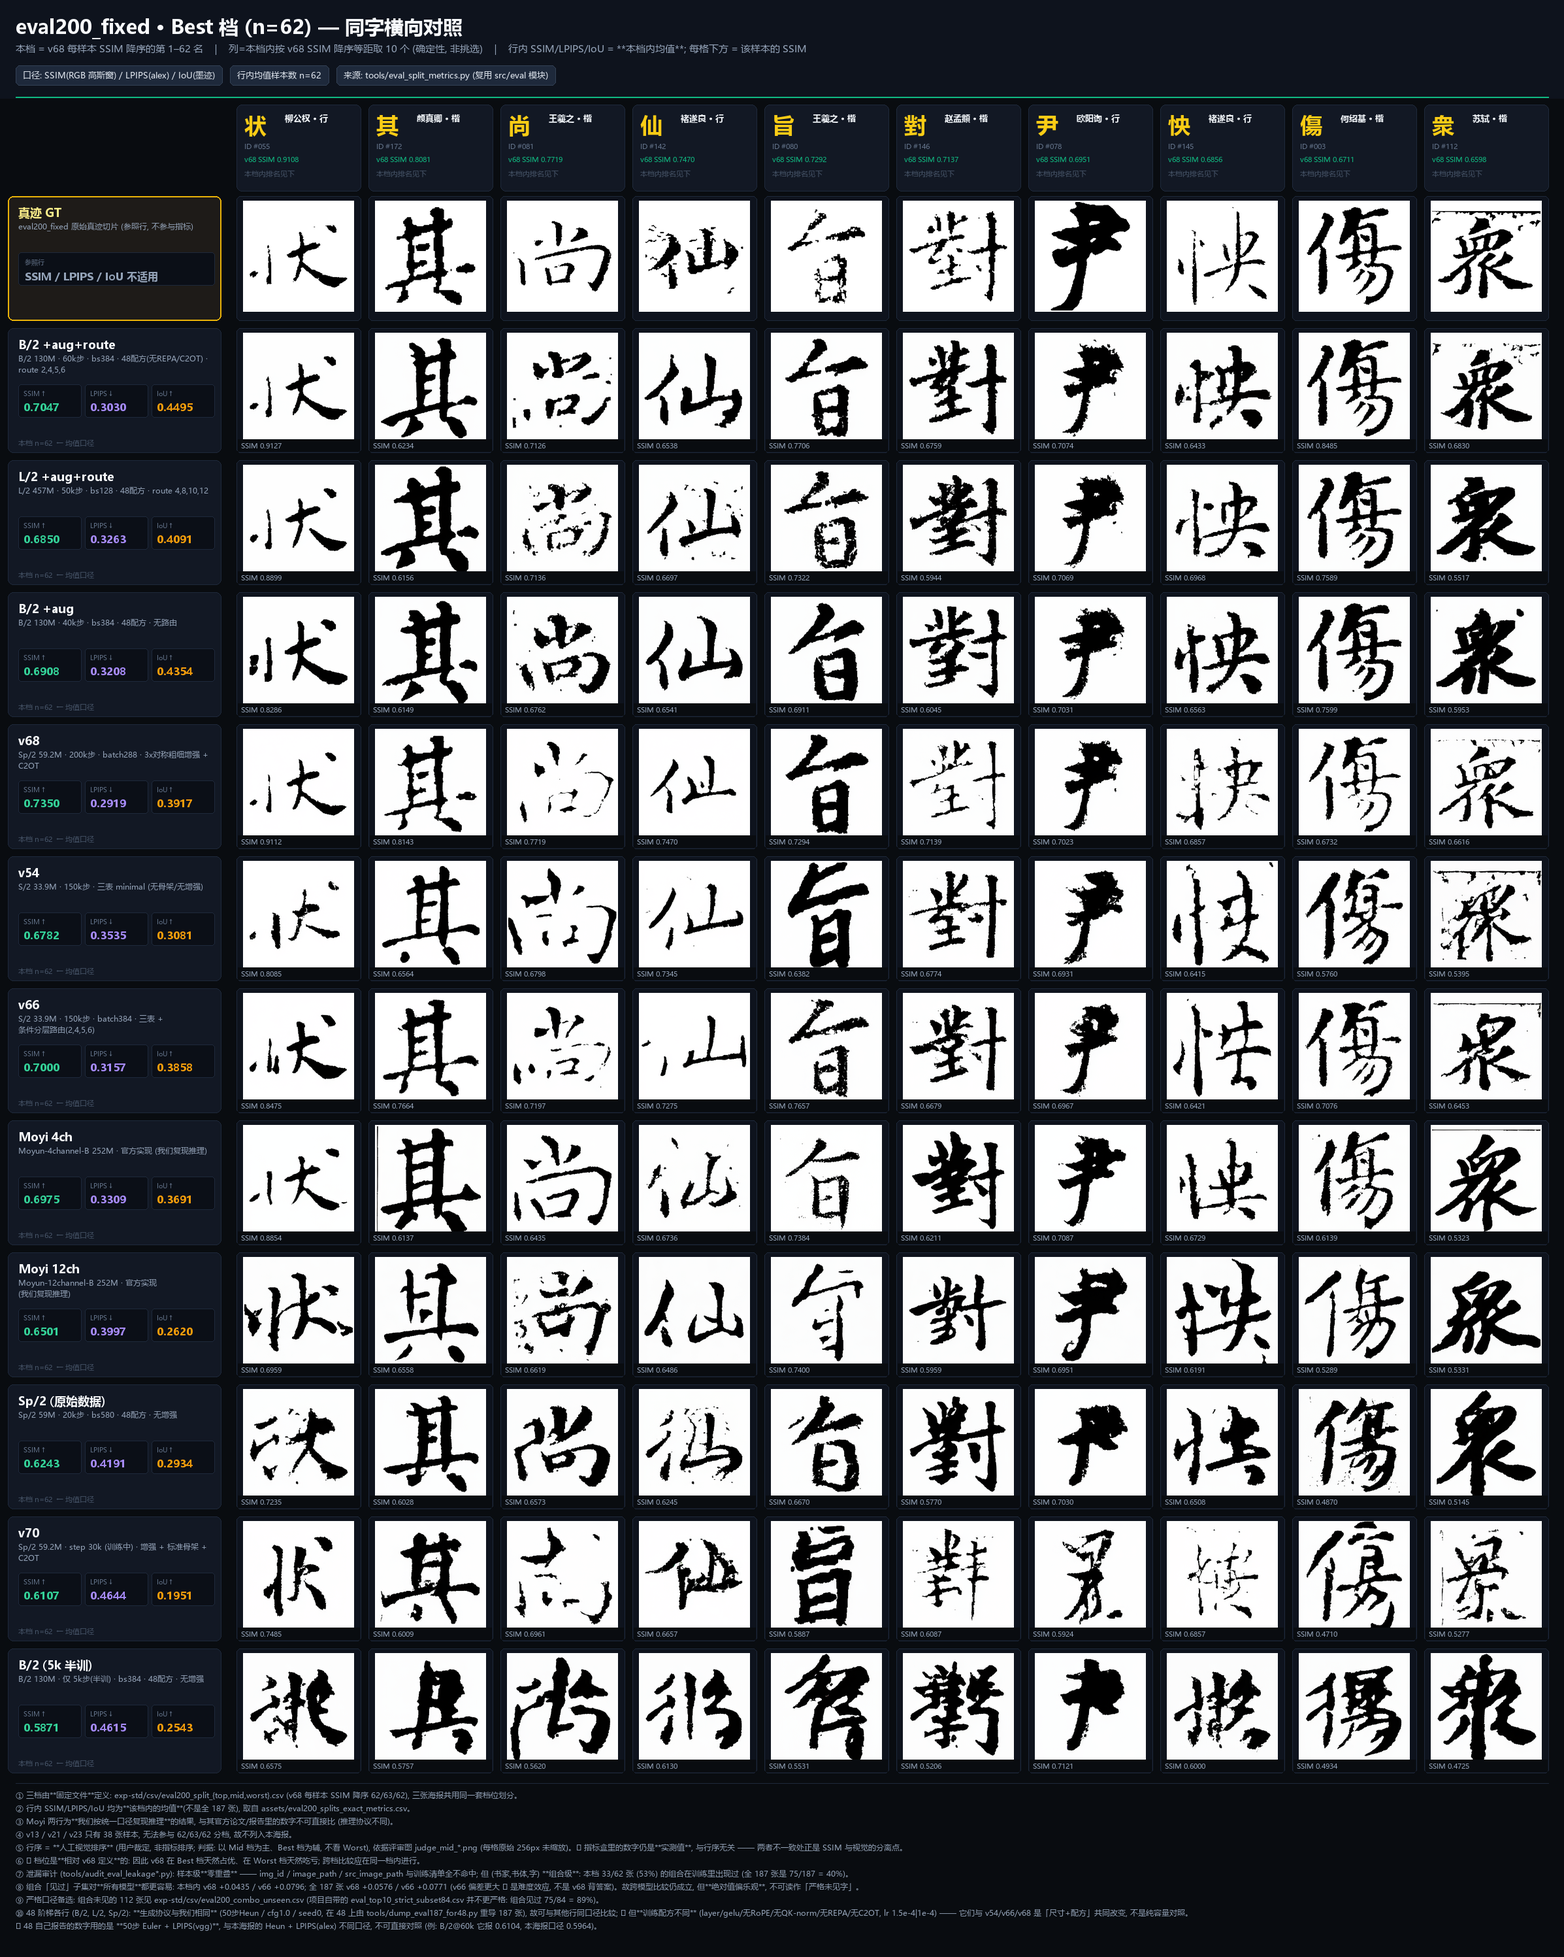
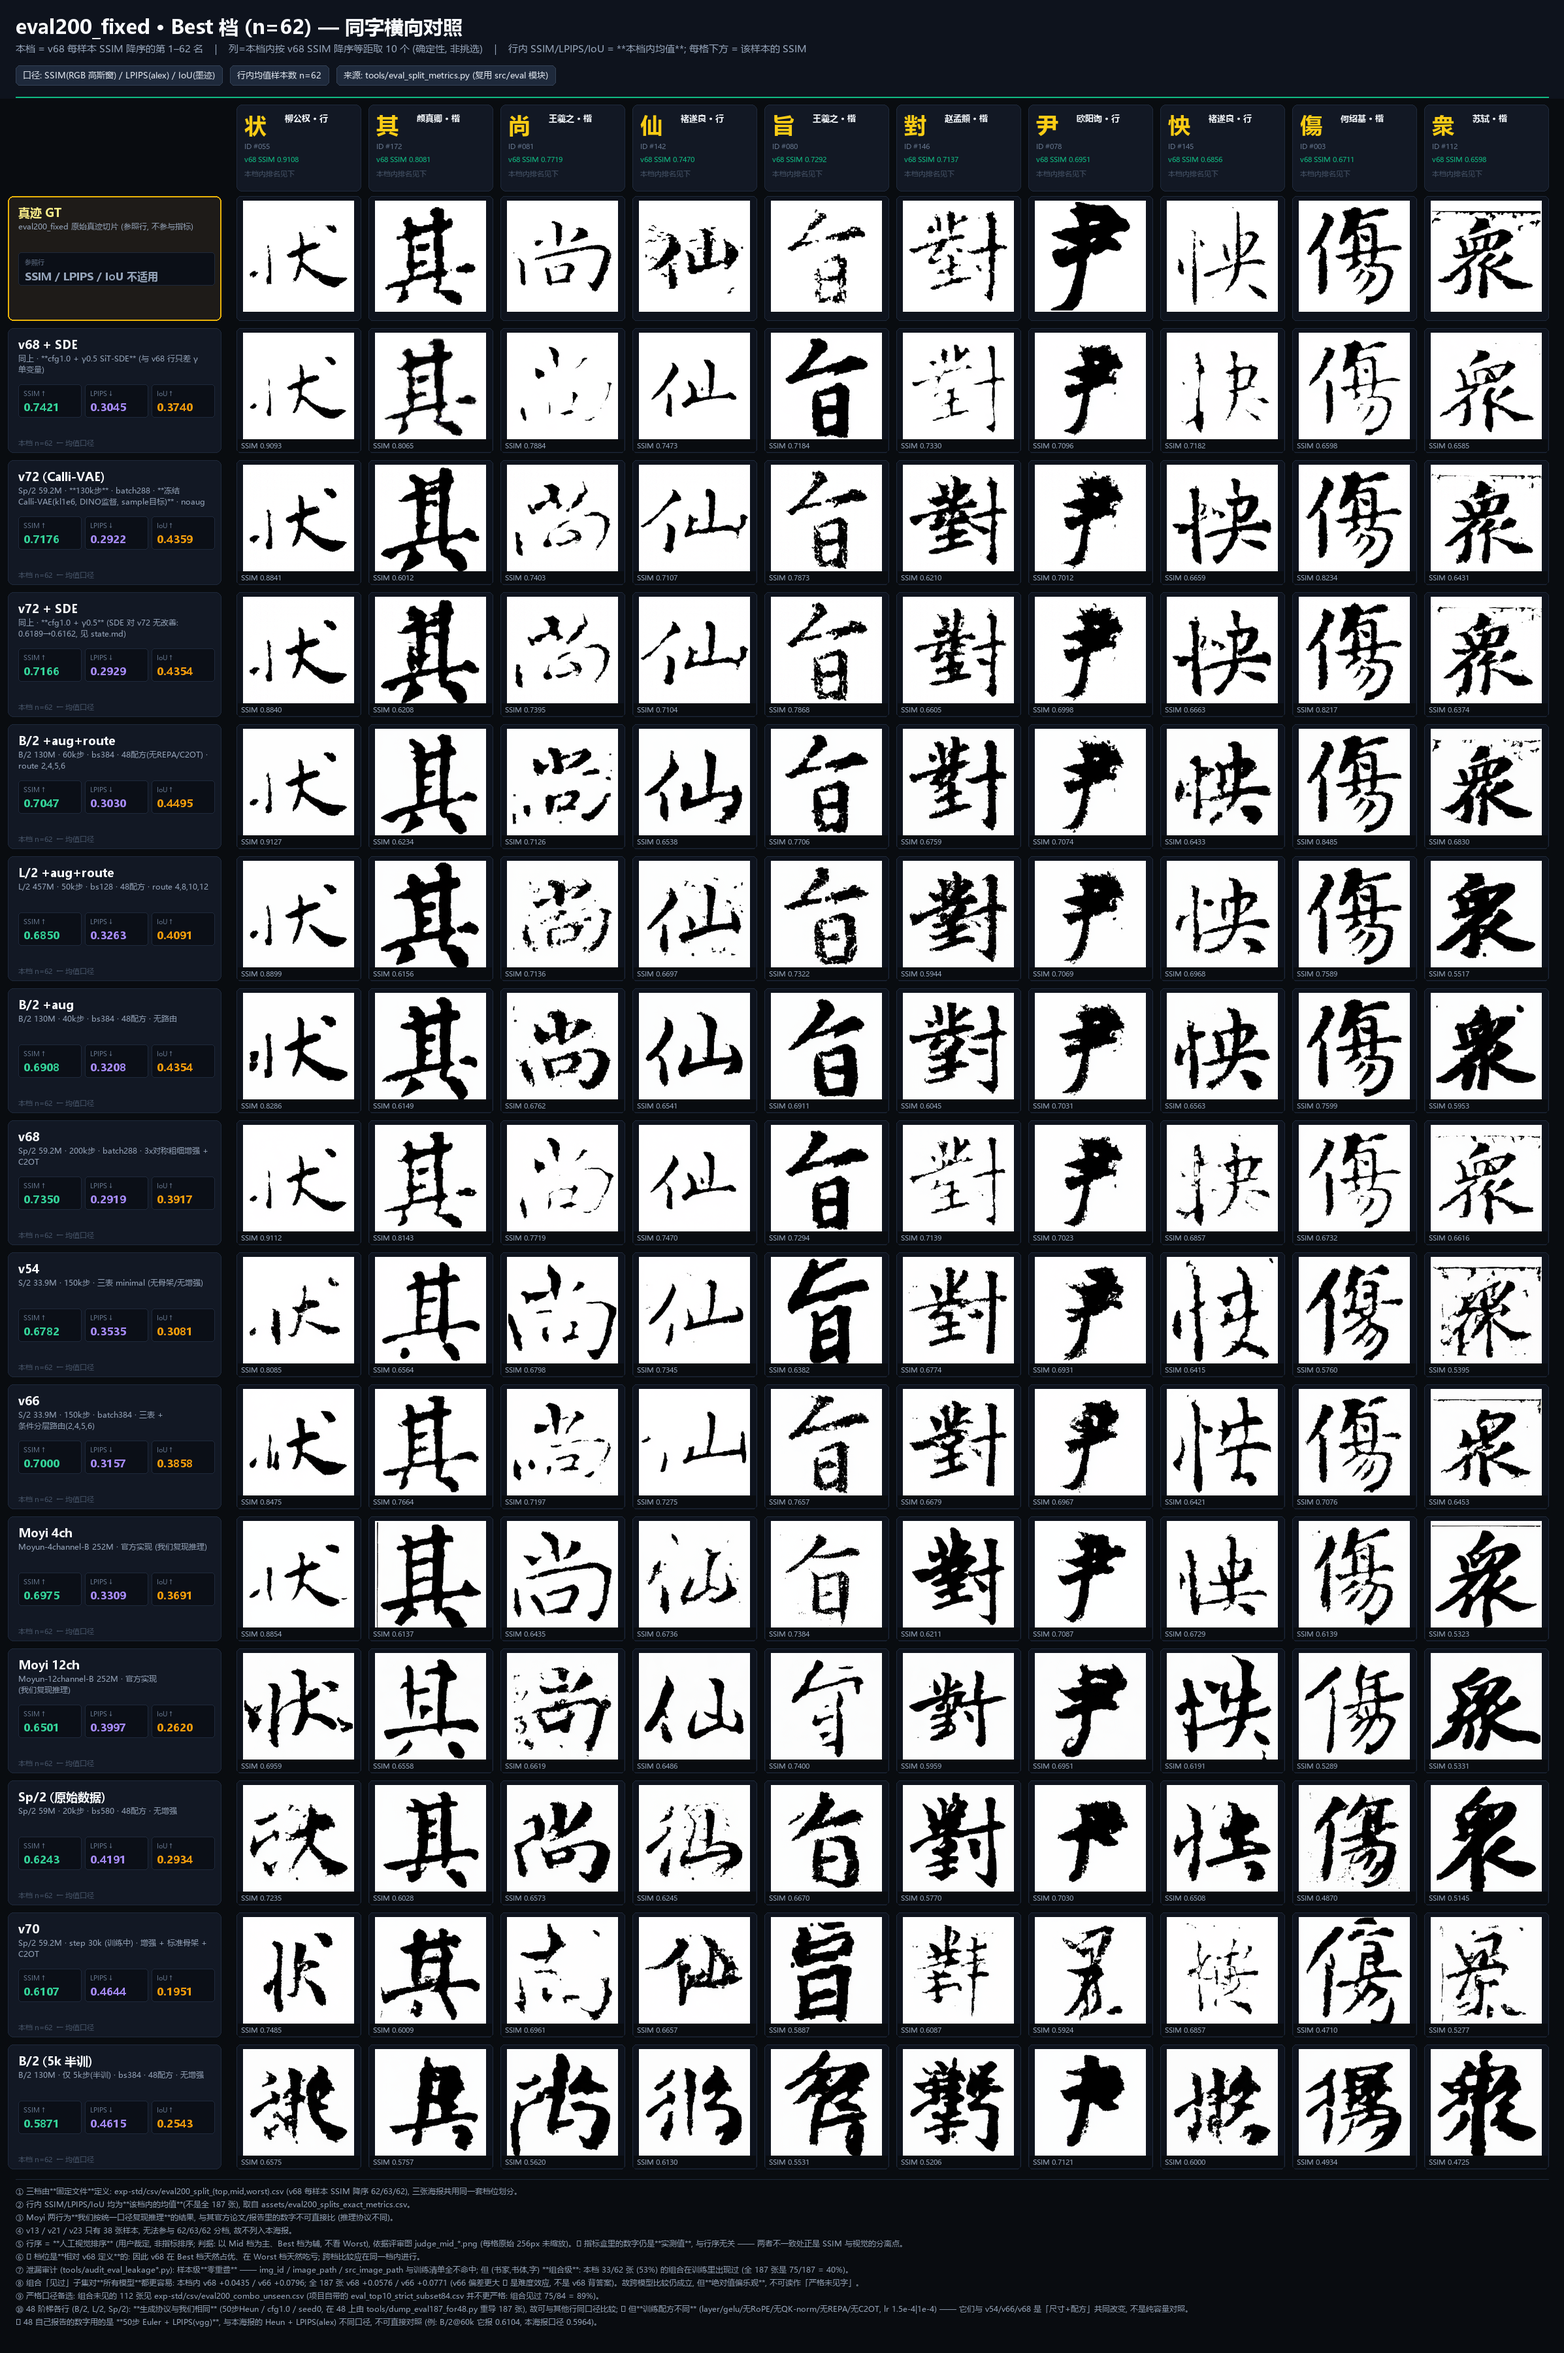
poster(mid): 四档海报扩行 —— 新增 v68+SDE / v72 / v72+SDE 三行(全部 cfg1.0 同口径, 与 v68 行仅差 gamma 单变量); 图由本机 4070 生成(零冲突于远程 v74); 附带修复 gen_eval_rows 复用 results_dir 导致'已完成则跳过'从而贴错标签的坑

diff --git a/tools/gen_eval_rows.py b/tools/gen_eval_rows.py
@@ -1,0 +1,132 @@
+#!/usr/bin/env python3
+# -*- coding: utf-8 -*-
+"""gen_eval_rows.py — 为海报生成"新行"图集：eval/<name>/{idx}.png
+
+背景: docs/04_experiments 的三张分级海报 (best/mid/worst) 的行 = 模型,
+      列 = 该档代表字 (idx = eval200_fixed.csv 行号), 图来源 = 根目录 eval/<model>/{idx}.png。
+      现有 15 行全是 cfg1.0/γ0；**没有任何 SDE 行, 也没有 v72** -> 本脚本补这两类行。
+
+做法 (复用已验证的采样链路, 不自己重写 sampler):
+  1. 从 eval200_fixed.csv 抽出指定 idx 子集 -> 临时 CSV
+  2. run_in_mem_eval(..., save_samples=True) 采样并落盘
+  3. 把 g{k}.png 改名到 eval/<name>/{idx_k}.png (k = 子集内序号)
+
+用法:
+  python tools/gen_eval_rows.py --name v68_sde \
+      --ckpt _local_ckpt/v68_200k/0200000.pt --config src/train/configs/v68_aug_sp_c2ot.json \
+      --vae-path pretrained_models/sd-vae-ft-ema --cfg 0.75 --gamma 0.5 --indices 100,170,...
+"""
+
+import argparse
+import csv
+import json
+import os
+import shutil
+import sys
+
+ROOT = os.path.dirname(os.path.dirname(os.path.abspath(__file__)))
+os.chdir(ROOT)
+sys.path.insert(0, ROOT)
+sys.stdout.reconfigure(encoding="utf-8", errors="replace")
+
+from src.model import DiT_2Cond_models                      # noqa: E402
+from src.eval.in_mem_eval import run_in_mem_eval            # noqa: E402
+
+EVAL_CSV = "exp-std/csv/eval200_fixed.csv"
+TABLES = "assets/triple_tables_best_minimal"
+
+
+class A:
+    def __init__(self, d):
+        for k, v in d.items():
+            setattr(self, k, v)
+
+
+def main():
+    ap = argparse.ArgumentParser()
+    ap.add_argument("--name", required=True, help="输出到 eval/<name>/")
+    ap.add_argument("--ckpt", required=True)
+    ap.add_argument("--config", required=True)
+    ap.add_argument("--vae-path", required=True)
+    ap.add_argument("--cfg", type=float, default=1.0)
+    ap.add_argument("--gamma", type=float, default=0.0)
+    ap.add_argument("--steps", type=int, default=50)
+    ap.add_argument("--indices", required=True, help="逗号分隔的 eval200_fixed 索引，或 @文件")
+    ap.add_argument("--device", default="cuda:0")
+    ap.add_argument("--batch", type=int, default=4)
+    ap.add_argument("--step-tag", type=int, default=0)
+    a = ap.parse_args()
+
+    if a.indices.startswith("@"):
+        idx = [int(x) for x in open(a.indices[1:], encoding="utf-8").read().strip().split(",") if x.strip()]
+    else:
+        idx = [int(x) for x in a.indices.split(",") if x.strip()]
+    rows = list(csv.DictReader(open(EVAL_CSV, encoding="utf-8")))
+    sel = [rows[i] for i in idx]
+    os.makedirs("_local_ckpt", exist_ok=True)
+    sub = f"_local_ckpt/genrows_{a.name}.csv"
+    with open(sub, "w", encoding="utf-8", newline="") as f:
+        w = csv.DictWriter(f, fieldnames=list(rows[0].keys()))
+        w.writeheader(); w.writerows(sel)
+    n = len(sel)
+    print(f"[{a.name}] idx={idx}\n  子集 {n} 行 -> {sub}", flush=True)
+
+    cfg = json.load(open(a.config, encoding="utf-8"))
+    cfg.update({
+        "eval_csv": EVAL_CSV, "in_mem_eval_sets": f"genrows:{sub}:{n}",
+        "triple_table_prefix": TABLES + "/",
+        "char_remap_json": f"{TABLES}/char_remap.json",
+        "callig_remap_json": f"{TABLES}/callig_remap.json",
+        "font_remap_json": f"{TABLES}/font_remap.json",
+        "vae_path": a.vae_path, "eval_vae_path": a.vae_path,
+        "eval_cfg": a.cfg, "sde_gamma": a.gamma, "eval_steps": a.steps,
+        "in_mem_eval_batch": a.batch, "in_mem_eval_vae_batch": a.batch,
+        "in_mem_eval_save_samples": True,
+    })
+    dev = a.device
+    model = DiT_2Cond_models[cfg.get("model", "DiT-2Cond-Sp/2")](
+        learn_sigma=False, norm_type=cfg.get("norm_type", "layer"), mlp_type=cfg.get("mlp_type", "gelu"),
+        qk_norm=cfg.get("qk_norm", 0), rope=cfg.get("rope", 0),
+        condition_fusion=cfg.get("condition_fusion", "factorized_cat"),
+        cond_fusion_norm=cfg.get("cond_fusion_norm", "split"),
+        num_calligraphers=cfg.get("num_calligraphers", 10), num_characters=cfg.get("num_characters", 4690),
+        num_script_classes=cfg.get("num_script_classes", 3), use_script_cond=cfg.get("use_script_cond", True),
+        char_embed_dim=cfg.get("char_embed_dim", 256), callig_embed_dim=cfg.get("callig_embed_dim", 32),
+        script_embed_dim=cfg.get("script_embed_dim", 16),
+        glyph_inject_layers=cfg.get("glyph_inject_layers", 0),
+        cond_inject_at=cfg.get("cond_inject_at", "2,4,5,6"),
+        cond_inject_scale=cfg.get("cond_inject_scale", True)).to(dev)
+    import torch
+    ck = torch.load(a.ckpt, map_location="cpu", weights_only=False)
+    st = ck.get("ema") or ck.get("model") or ck
+    if hasattr(st, "state_dict"):
+        st = st.state_dict()
+    st = {k[len("_orig_mod."):] if k.startswith("_orig_mod.") else k: v for k, v in st.items()}
+    m, u = model.load_state_dict(st, strict=False)
+    print(f"  [ckpt] {os.path.basename(a.ckpt)} missing={m} unexpected={u}", flush=True)
+    model.eval()
+
+    res_dir = f"_local_ckpt/gen_{a.name}_n{n}"
+    # ★ 必须清空: run_in_mem_eval 有"(step,set) 已完成则跳过评测"的逻辑, 复用 results_dir
+    #   会导致本轮**跳过采样**, 然后在拷贝阶段把上一轮的残留 g{k}.png 当成本轮结果复制
+    #   （图被贴错标签, 且不报错）。2026-10-10 实测踩到, 故此处强制清场。
+    shutil.rmtree(res_dir, ignore_errors=True)
+    run_in_mem_eval(model, A(cfg), step=a.step_tag, device=dev, results_dir=res_dir, logger=print)
+
+    src = os.path.join(res_dir, "eval_samples_ctrl", f"step{a.step_tag:07d}", "genrows")
+    dst = os.path.join("eval", a.name)
+    shutil.rmtree(dst, ignore_errors=True)      # ★ 同样清空目标, 防新旧混在一起
+    os.makedirs(dst, exist_ok=True)
+    ok = 0
+    for k, i in enumerate(idx):
+        p = os.path.join(src, f"g{k}.png")
+        if os.path.exists(p):
+            shutil.copyfile(p, os.path.join(dst, f"{i}.png"))
+            ok += 1
+        else:
+            print(f"  ✗ 缺 g{k}.png (idx={i})")
+    print(f"[{a.name}] 写入 {ok}/{n} 张 -> {dst}/  (cfg={a.cfg} gamma={a.gamma} steps={a.steps})")
+
+
+if __name__ == "__main__":
+    main()

diff --git a/tools/make_split_posters.py b/tools/make_split_posters.py
@@ -43,6 +43,10 @@ N_COLS = 10          # 兼容旧引用 (默认值)
 # 行: (目录名, 显示名, 事实描述)
 ROWS = [
     ("v68", "v68", "Sp/2 59.2M · 200k步 · batch288 · 3x对称粗细增强 + C2OT"),
+    # ★ 2026-10-10 新增三行 (均为 cfg1.0 口径, 与上面所有行同协议; 无 GPU 冲突: 本机 4070 生成)
+    ("v68_sde", "v68 + SDE", "同上 · **cfg1.0 + γ0.5 SiT-SDE** (与 v68 行只差 γ 单变量)"),
+    ("v72", "v72 (Calli-VAE)", "Sp/2 59.2M · **130k步** · batch288 · **冻结 Calli-VAE(kl1e6, DINO监督, sample目标)** · noaug 26k · C2OT"),
+    ("v72_sde", "v72 + SDE", "同上 · **cfg1.0 + γ0.5** (SDE 对 v72 无改善: 0.6189→0.6162, 见 state.md)"),
     ("moyi_4ch", "Moyi 4ch", "Moyun-4channel-B 252M · 官方实现 (我们复现推理)"),
     ("v66", "v66", "S/2 33.9M · 150k步 · batch384 · 三表 + 条件分层路由(2,4,5,6)"),
     ("v54", "v54", "S/2 33.9M · 150k步 · 三表 minimal (无骨架/无增强)"),
@@ -67,6 +71,11 @@ ROWS = [
 # 依据: _sync_work/judge_mid_bl.png / judge_mid_top.png / judge_mid_rest.png / judge_best_*.png
 #       (每格原始 256px 未缩放)
 VISUAL_ORDER = [
+    # ★ 2026-10-10: 下面三行是**新增对照行**, 为便于与各自基线对读而插在其旁;
+    #   它们**不属于** 2026-10-07 那次人工视觉排序, 不构成任何新的质量判断。
+    "v68_sde",             # = v68 + γ0.5 SDE（与 v68 只差 γ）
+    "v72",                 # = Calli-VAE 主线（同 cfg1.0 口径）
+    "v72_sde",             # = v72 + γ0.5（SDE 对 v72 无改善）
     "v_b_aug_route_60k",   # Mid 最贴 GT: 墨量/粗单笔(已)/brushy(类) 都对, 仅 类 略糊
     "v_l_aug_route_50k",   # 与 B60k 同级, 略软
     "v_b_aug_40k",         # 同族, Mid 上 类 更碎一些

diff --git a/tools/eval_split_metrics.py b/tools/eval_split_metrics.py
@@ -40,6 +40,10 @@ GT_DIR = "eval/gt"
 MODELS = {
     "v70": ("", "ours Sp/2 + aug + stdskel + C2OT"),
     "v68": ("", "ours Sp/2 + aug + C2OT"),
+    # ★ 2026-10-10 新增三行（本机 4070 生成, cfg1.0 口径, 与上面各行同协议）
+    "v68_sde": ("", "ours v68 200k + SiT-SDE γ0.5 (cfg1.0; 与 v68 只差 γ)"),
+    "v72": ("", "ours Sp/2 + 冻结 Calli-VAE(kl1e6, sample目标) 130k"),
+    "v72_sde": ("", "ours v72 130k + SiT-SDE γ0.5 (cfg1.0)"),
     "v66": ("", "ours S/2 route2456"),
     "v54": ("", "ours S/2 三表 minimal"),
     # ── 48 机器容量阶梯 (2026-10-07 用**我们主线的 Heun 协议**在 48 上重新导出 187 张) ──

diff --git a/state.md b/state.md
@@ -107,6 +107,22 @@
 - **判定树**：v74 的 **HF↑ / 墨量斜率↑（0.55→?）/ r↑（0.53→?）** → 确认是"目标/采样"问题（mode 治住均值化），与 VAE 的"后验坍缩"是同一件事两端，可合并推进并续训到 200k；**三项都不动** → 均值化属容量/损失层面，主线转"高频损失项 + 容量/数据"。
 - 之后接 **VAE 修正训练三臂**（已就绪，见上表）；GPU 与 v74 互斥（VAE 需 20~33G，v74 占 22.5G）。
 
+**★ Mid 档全景海报扩行（2026-10-10）：加 v68+SDE 与 v72**
+
+`docs/04_experiments/imgs/eval200_mid_split_poster.png` 原为 **11 模型 × 16 字**（mid 档，列字按 v68 SSIM 降序等距取，确定性）。本次加 **3 行**：
+| 行 | 配方 | 与已有行的关系 |
+|---|---|---|
+| `v68_sde` | v68@200k + **γ0.5** | **与 `v68` 行只差 γ（单变量）** |
+| `v72` | v72@130k（冻结 Calli-VAE, sample 目标） | 新模型 |
+| `v72_sde` | v72@130k + γ0.5 | 证明 SDE 对 v72 无改善 |
+
+- **协议统一**：新行一律 **cfg1.0**（与海报已有 15 行同口径），所以 `v68` vs `v68_sde` 是干净单变量。
+- **生成方式**：本机 **4070 Laptop（8G）** 跑推理，**与远程 v74 零冲突**（v74 在 4090）。工具 `tools/gen_eval_rows.py`（复用已验证采样链路，勿自写 sampler）。
+- 本机 16 字小评（mid 列字）：`v68_sde 0.6323 / 0.3183`｜`v72 0.6189 / 0.3883`｜`v72_sde 0.6162 / 0.3895`（SSIM/LPIPS）。
+
+**⚠ 新坑（静默错图）**：`run_in_mem_eval` 有"**(step,set) 已完成则跳过评测**"的逻辑。**复用同一个 `results_dir` + 同一个 set 名**时，第二次会**跳过采样**，然后在存图阶段**把上一轮的残留 `g{k}.png` 当成本轮结果复制出去** → **图被贴错标签且不报错**。
+- 纪律：`tools/gen_eval_rows.py` 现在**每轮用唯一 results_dir 并先清空目标目录**；任何复用 results_dir 的评测脚本都要照此办理。
+
 > `sde_gamma=0.0` 是 2026-10-09 显式钉住的（commit `3de27be`）：因为同步 SDE 代码后，`--sde-gamma` 的 CLI 默认值 0.5 会被**训练内评测自动继承**，一旦重启就会让同一条曲线中途换口径。
 
 ### 2.2 48 · 消融 8 臂：拆解 v68 配方
